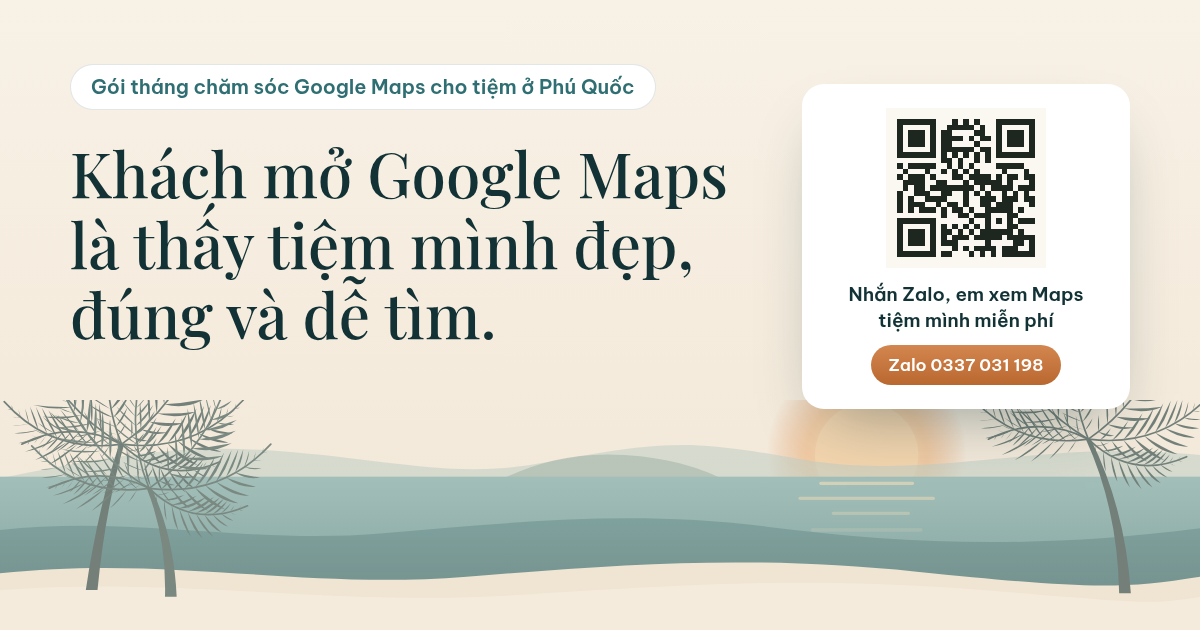
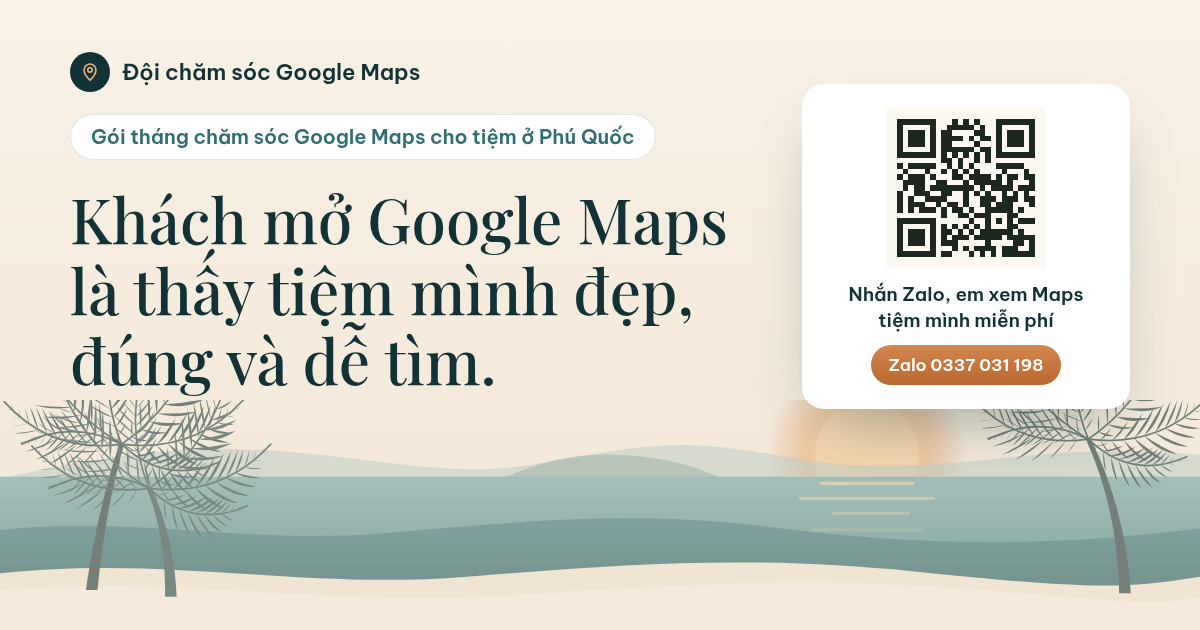
Trang dịch vụ: tên thương hiệu 'Đội chăm sóc Google Maps' / 'Google Maps Care Team' (config.js, title, og:site_name, og.png v4, chân trang) + dòng tuyên bố độc lập với Google

Changed region(s): [[0.0617, 0.0603, 0.6167, 0.6333]]

diff --git a/dich-vu/index.html b/dich-vu/index.html
@@ -3,16 +3,17 @@
 <head>
 <meta charset="utf-8">
 <meta name="viewport" content="width=device-width,initial-scale=1,viewport-fit=cover">
-<title>Gói tháng chăm sóc Google Maps cho tiệm ở Phú Quốc</title>
+<title>Gói tháng chăm sóc Google Maps cho tiệm ở Phú Quốc | Đội chăm sóc Google Maps</title>
 <meta name="description" content="Em lo hết phần Google Maps cho tiệm: giờ mở cửa, đường đi, bảng giá, trả lời đánh giá. Anh chị chỉ việc đón khách. Nhắn Zalo, em xem Maps tiệm mình miễn phí.">
 <meta property="og:type" content="website">
+<meta property="og:site_name" content="Đội chăm sóc Google Maps">
 <meta property="og:locale" content="vi_VN">
 <meta property="og:title" content="Khách mở Google Maps là thấy tiệm mình đẹp, đúng và dễ tìm.">
 <meta property="og:description" content="Gói tháng chăm sóc Google Maps cho tiệm ở Phú Quốc. Em lo hết phần Google Maps cho tiệm: giờ mở cửa, đường đi, bảng giá, trả lời đánh giá. Anh chị chỉ việc đón khách.">
 <meta property="og:url" content="https://huydoan06-star.github.io/demo-phu-quoc/dich-vu/">
-<meta property="og:image" content="https://huydoan06-star.github.io/demo-phu-quoc/dich-vu/og.png?v=3">
+<meta property="og:image" content="https://huydoan06-star.github.io/demo-phu-quoc/dich-vu/og.png?v=4">
 <meta property="og:image:width" content="1200"><meta property="og:image:height" content="630">
-<meta property="og:image:alt" content="Khách mở Google Maps là thấy tiệm mình đẹp, đúng và dễ tìm – nhắn Zalo 0337031198">
+<meta property="og:image:alt" content="Đội chăm sóc Google Maps – Khách mở Google Maps là thấy tiệm mình đẹp, đúng và dễ tìm – nhắn Zalo 0337031198">
 <meta name="twitter:card" content="summary_large_image">
 <meta name="theme-color" content="#F4EBDD">
 <link rel="preconnect" href="https://fonts.googleapis.com"><link rel="preconnect" href="https://fonts.gstatic.com" crossorigin>
@@ -44,10 +45,10 @@ section{padding:64px 0}
 /* header */
 .top{position:sticky;top:0;z-index:30;background:rgba(251,247,240,.9);-webkit-backdrop-filter:blur(10px);backdrop-filter:blur(10px);border-bottom:1px solid var(--line)}
 .top .wrap{display:flex;align-items:center;justify-content:space-between;gap:12px;height:56px}
-.brand{display:flex;align-items:center;gap:9px;text-decoration:none;color:var(--deep);font:600 17px/1 var(--sans)}
+.brand{display:flex;align-items:center;gap:9px;min-width:0;text-decoration:none;color:var(--deep);font:600 min(16px,3.7vw)/1.2 var(--sans);white-space:nowrap}.brand .mk{flex:0 0 30px}.brand>span:last-child{overflow:hidden;text-overflow:ellipsis}
 .brand .mk{width:30px;height:30px;border-radius:50%;display:grid;place-items:center;background:var(--deep);color:#E9B17C}.brand .mk svg{width:16px;height:16px}
 .lang{display:flex;border:1px solid rgba(18,50,54,.2);border-radius:999px;padding:3px}
-.lang button{border:0;background:none;padding:6px 11px;border-radius:999px;font:600 12px var(--sans);letter-spacing:.06em;color:var(--muted);cursor:pointer}
+.lang button{border:0;background:none;padding:6px 9px;border-radius:999px;font:600 12px var(--sans);letter-spacing:.06em;color:var(--muted);cursor:pointer}
 .lang button.on{background:var(--deep);color:#fff}
 /* hero */
 .hero{position:relative;overflow:hidden;min-height:calc(100vh - 56px);min-height:calc(100svh - 56px);display:flex;flex-direction:column;justify-content:center;padding:36px 0 150px;background:linear-gradient(180deg,#F8F1E6,#F2E7D6)}
@@ -131,7 +132,7 @@ footer .tm{margin-top:16px;font-size:12px;color:#7F9692}
 </svg>
 
 <header class="top"><div class="wrap">
- <a class="brand" href="#"><span class="mk"><svg><use href="#pinS"/></svg></span><span data-cfg="brand">Ghim Tiệm</span></a>
+ <a class="brand" href="#"><span class="mk"><svg><use href="#pinS"/></svg></span><span data-cfg="brand">Đội chăm sóc Google Maps</span></a>
  <div class="lang" role="group" aria-label="Ngôn ngữ / Language"><button type="button" data-l="vi" class="on">VI</button><button type="button" data-l="en">EN</button></div>
 </div></header>
 
@@ -221,7 +222,7 @@ footer .tm{margin-top:16px;font-size:12px;color:#7F9692}
   <p data-en="I don’t buy reviews, I can’t delete bad reviews, and I don’t promise top ranking.">Em không mua đánh giá, không xoá được đánh giá xấu, không hứa lên top.</p>
  </div>
  <p class="more"><span data-en="See more:">Xem thêm:</span> <a href="../spa/" data-en="sample spa page">trang spa mẫu</a> · <a href="../nha-hang/" data-en="sample restaurant page">trang nhà hàng mẫu</a></p>
- <p class="tm"><span data-cfg="brand">Ghim Tiệm</span> · <span data-en="Google, Google Maps and Google Business Profile are trademarks of Google LLC. Independent service, not affiliated with Google. Illustrations drawn for this page.">Google, Google Maps và Google Business Profile là thương hiệu của Google LLC. Dịch vụ độc lập, không liên kết với Google. Hình minh hoạ tự vẽ.</span></p>
+ <p class="tm"><b data-cfg="brand" style="font-weight:600;color:#D5E0DD">Đội chăm sóc Google Maps</b><br><span data-en="Independent service, not part of or endorsed by Google. Google Maps is a trademark of Google LLC.">Dịch vụ độc lập, không thuộc và không được Google bảo trợ. Google Maps là nhãn hiệu của Google LLC.</span><br><span data-en="Illustrations drawn for this page.">Hình minh hoạ tự vẽ.</span></p>
 </div></footer>
 <div class="dock" id="dock"><a class="btn pri" href="https://zalo.me/0337031198" target="_blank" rel="noopener"><svg><use href="#zl"/></svg><span data-en="Message me on Zalo – free Maps check">Nhắn Zalo, em xem Maps tiệm mình miễn phí</span></a></div>
 <script src="config.js"></script>
@@ -231,13 +232,14 @@ footer .tm{margin-top:16px;font-size:12px;color:#7F9692}
  var els=[].slice.call(document.querySelectorAll("[data-en]"));els.forEach(function(e){e._vi=e.innerHTML;});
  function pick(o,l){return o&&typeof o==="object"?(o[l]||""):"";}
  function cfg(l){
-  [].forEach.call(document.querySelectorAll('[data-cfg="brand"]'),function(e){if(C.brand)e.textContent=C.brand;});
+  var bn=pick(C.brand,l)||pick(C.brand,"vi")||(typeof C.brand==="string"?C.brand:"");
+  [].forEach.call(document.querySelectorAll('[data-cfg="brand"]'),function(e){if(bn)e.textContent=bn;});
   var t=document.querySelector('[data-cfg="title"]'),tt=pick(C.title,l)||pick(C.title,"vi");if(t&&tt)t.textContent=tt;
   var p=document.querySelector('[data-cfg="price"]');if(p)p.textContent=pick(C.price,l);
   var parts=[];if(C.replyTime&&C.replyTime[l])parts.push(l==="en"?"I reply "+C.replyTime.en:"Em trả lời "+C.replyTime.vi);
   if(C.weeklySlots)parts.push(l==="en"?"Taking "+C.weeklySlots+" shops a week":"Mỗi tuần em nhận "+C.weeklySlots+" tiệm");
   [].forEach.call(document.querySelectorAll('[data-cfg="slots"]'),function(e){e.textContent=parts.join(" · ");});
-  document.title=l==="en"?"Monthly Google Maps care for shops in Phu Quoc":"Gói tháng chăm sóc Google Maps cho tiệm ở Phú Quốc";
+  document.title=(l==="en"?"Monthly Google Maps care for shops in Phu Quoc":"Gói tháng chăm sóc Google Maps cho tiệm ở Phú Quốc")+(bn?" | "+bn:"");
  }
  function set(l){L=l;els.forEach(function(e){e.innerHTML=l==="en"?e.getAttribute("data-en"):e._vi;});document.documentElement.lang=l;cfg(l);
   [].forEach.call(document.querySelectorAll(".lang button"),function(b){b.classList.toggle("on",b.dataset.l===l);});

diff --git a/dich-vu/config.js b/dich-vu/config.js
@@ -2,7 +2,8 @@
  * Lưu ý: thẻ Open Graph trong <head> của index.html là chữ cố định (Facebook/Zalo không chạy JS);
  * đổi tiêu đề ở đây thì nhớ sửa og:title + og.png nếu muốn ảnh chia sẻ khớp. */
 window.DV = {
-  brand: "Ghim Tiệm",                       // tên thương hiệu (tạm, chưa chốt)
+  // Tên thương hiệu (Đại nhân chốt 09/10/2026)
+  brand: { vi: "Đội chăm sóc Google Maps", en: "Google Maps Care Team" },
   zalo: "0337031198",
   // Tiêu đề lớn đầu trang
   title: {
